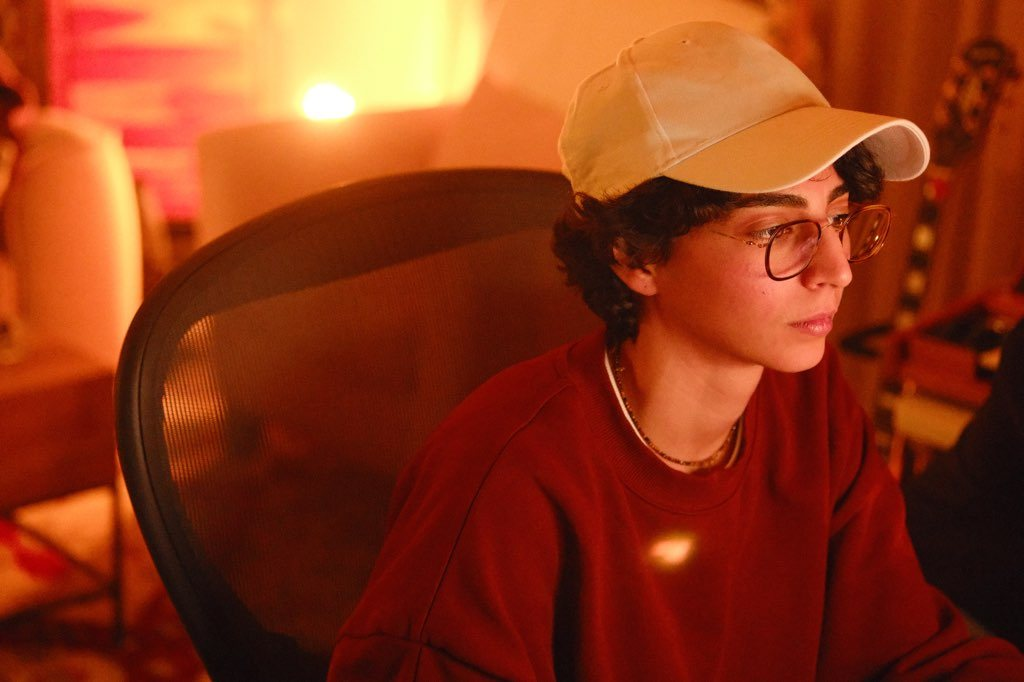
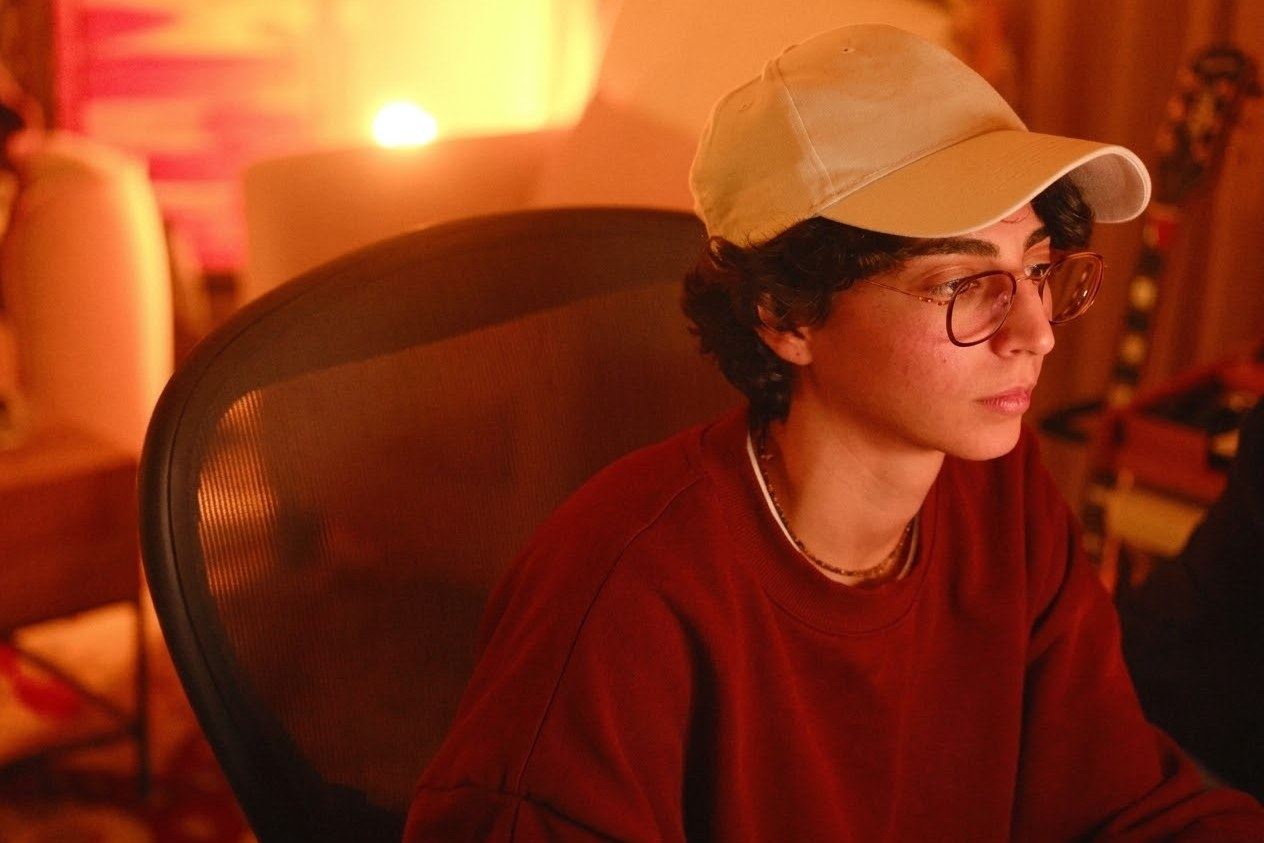
Home portrait from the restored 1264px picture, social crop recut

diff --git a/CLAUDE.md b/CLAUDE.md
@@ -109,7 +109,7 @@ Source material lives outside the repo in `maryam_web_info/media_content`, inclu
 
 Web assets were derived with ffmpeg and Pillow. Stills are cropped to 3:2 to match the footage, resized to roughly 1800px wide, and saved as progressive JPEG at quality 80.
 
-The portrait Maryam chose for the home page, `public/images/maryam-portrait.jpg`, is a 1024 by 682 crop of `DSCF2076.jpeg` and the only copy that exists. It sits beside the headline on Home inside the `.hero` grid, capped at 40rem so it is never requested wider than its source, and as a small square on `/links`. `public/images/og-portrait.jpg` is a 1200 by 630 crop of the same frame for Open Graph and the JSON-LD `Person` image. The About page carries `maryam-session.jpg`, the dark background session photo she asked for there, cut 4:5 around the two figures at 1440 by 1800 from `DSCF2712.jpg`, as the full height left panel in her About mockup.
+The portrait Maryam chose for the home page, `public/images/maryam-portrait.jpg`, is a 1264 by 843 crop of `maryam_pic.png`, a Gemini restoration of the 1024 by 683 `DSCF2076.jpeg` made on 2026-10-07 because the camera original is not to hand. The restoration kept her face but lightly resynthesised skin texture and removed a light reflection on the sweatshirt; replace it with the camera original if Maryam supplies one. It sits beside the headline on Home inside the `.hero` grid, capped at 40rem so it is never requested wider than its source, and as a small square on `/links`. `public/images/og-portrait.jpg` is a 1200 by 630 crop of the same frame for Open Graph and the JSON-LD `Person` image. The About page carries `maryam-session.jpg`, the dark background session photo she asked for there, cut 4:5 around the two figures at 1440 by 1800 from `DSCF2712.jpg`, as the full height left panel in her About mockup.
 
 The two Rawda campaign films play in full, with sound, side by side under the list on the Work page. They are the finished spots carrying Maryam's music and mix, so the audio is only AAC encoded, never normalised or altered. Each is scaled to 1920px, encoded with libx264 at crf 24 capped at 5Mbps, AAC at 192k, faststart, with the camera timecode track dropped. That lands at 8 to 12MB each, which is why they use `preload="none"` behind a poster frame saved to `public/images/films/`.
 
